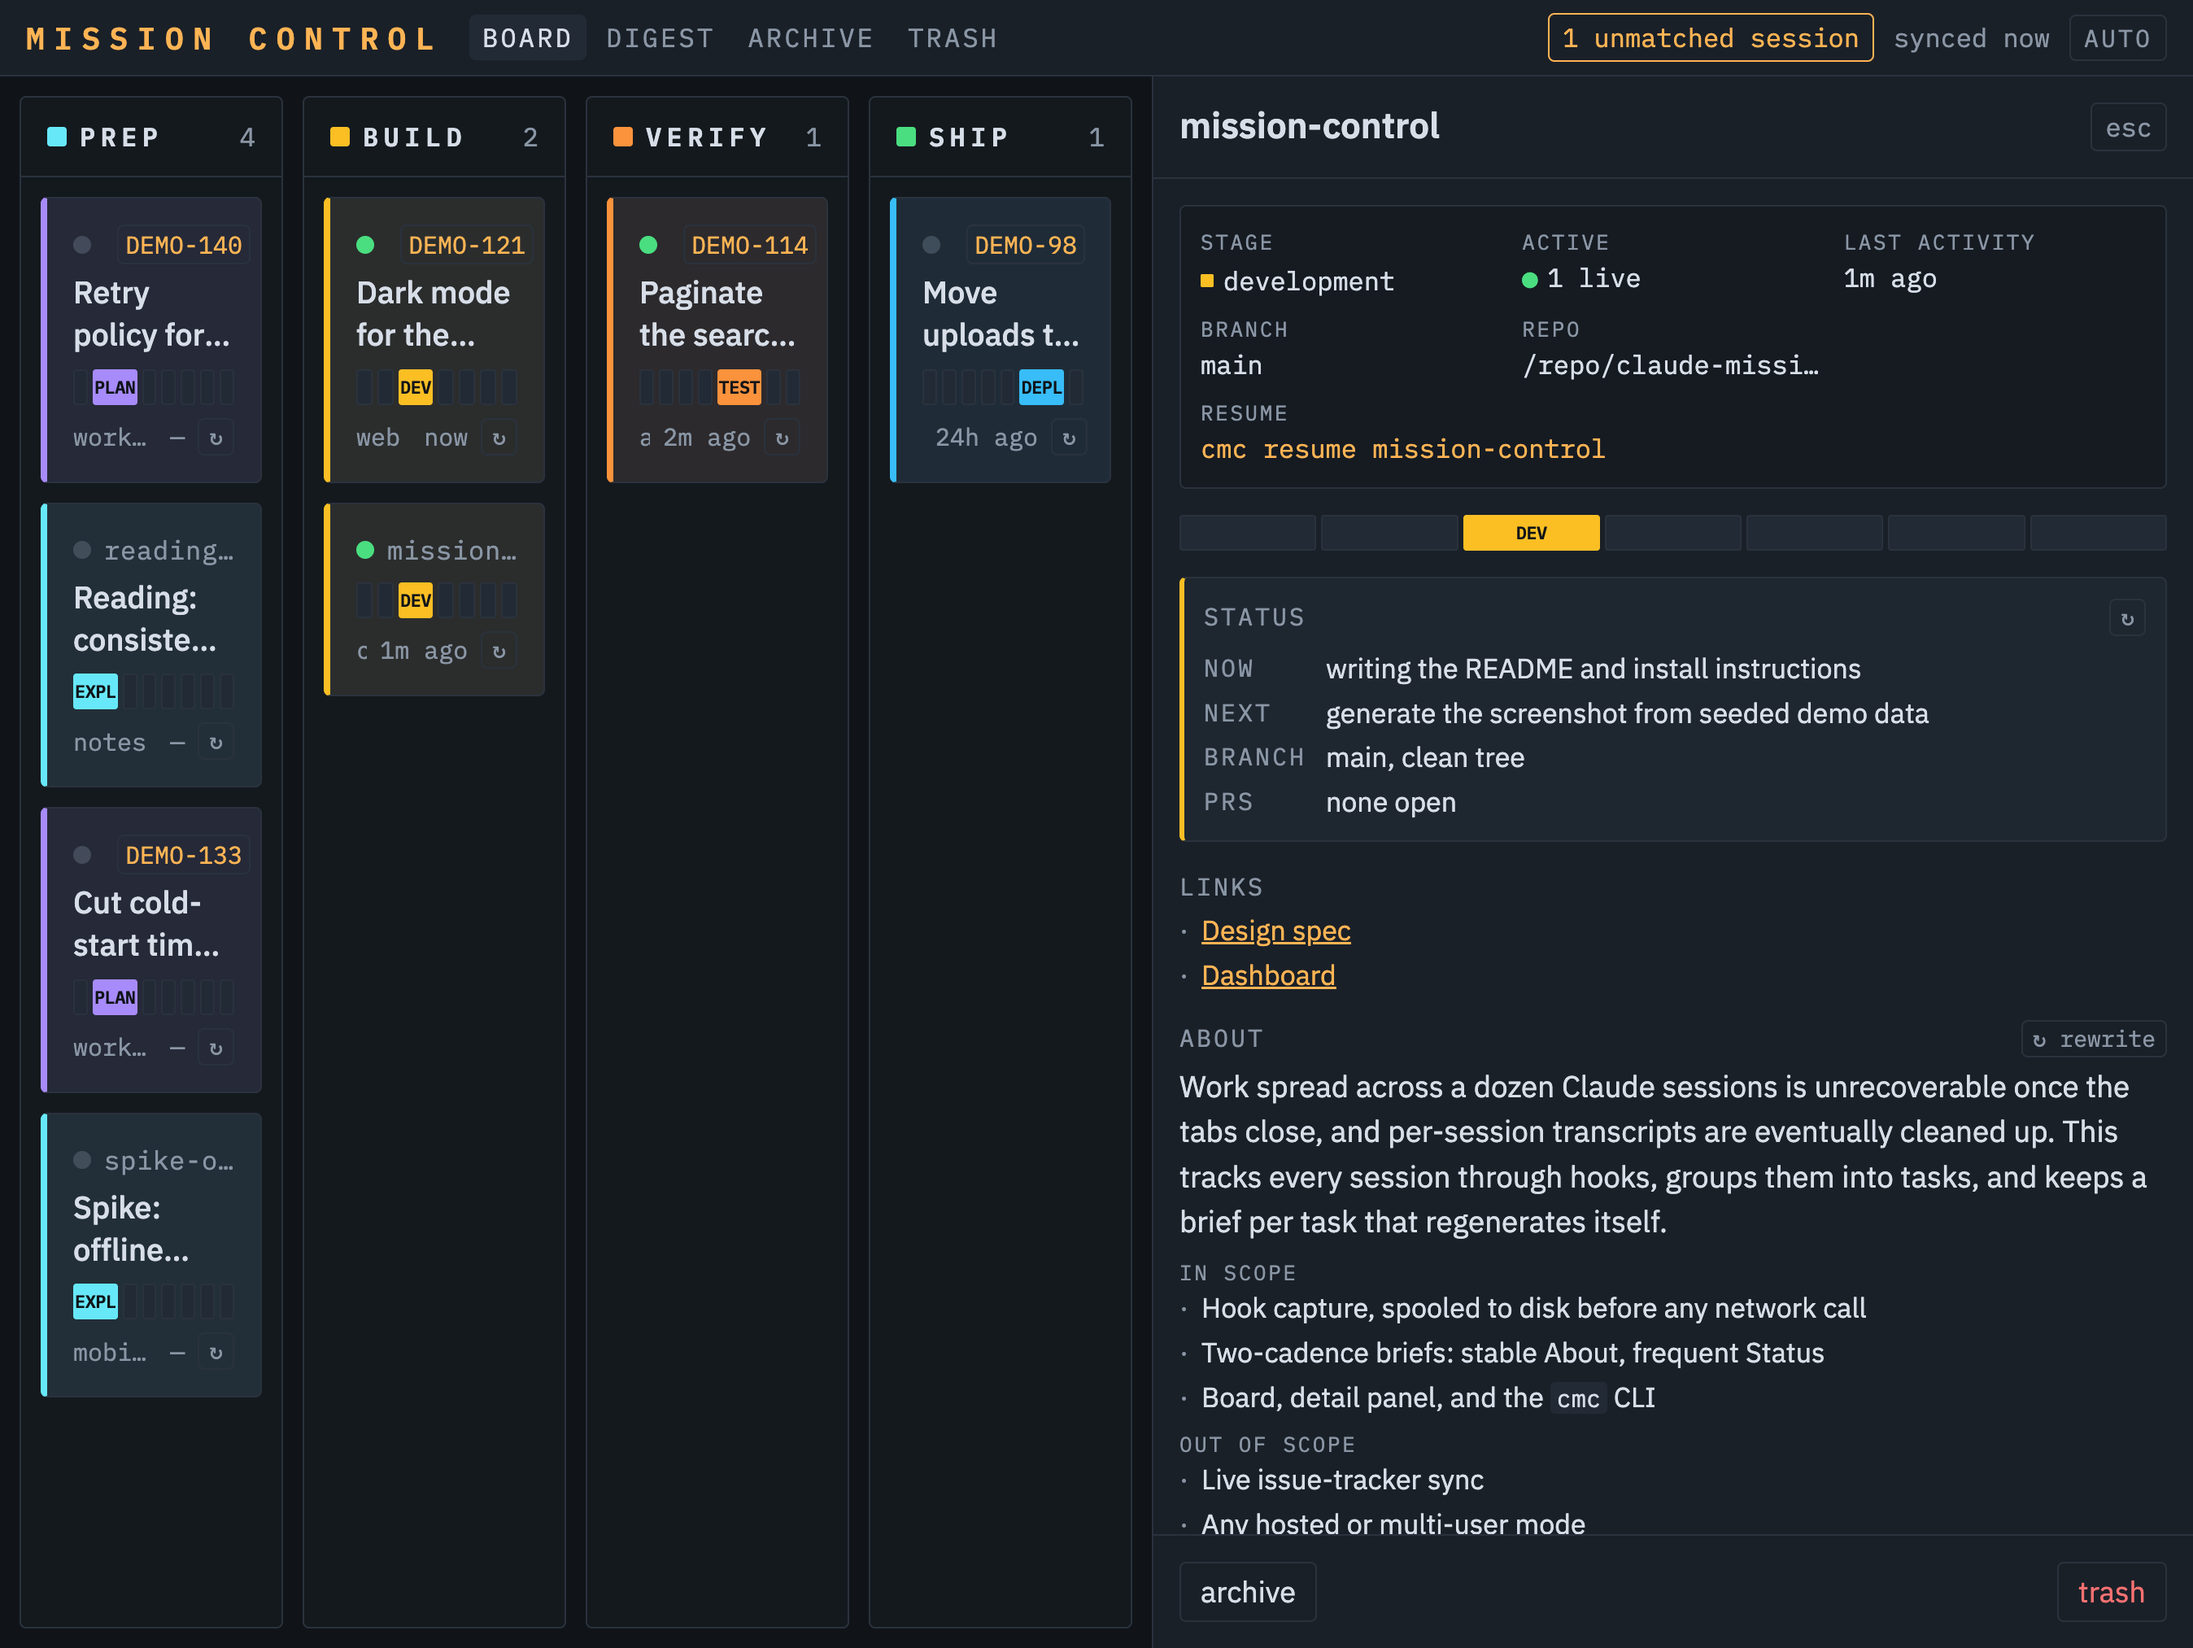
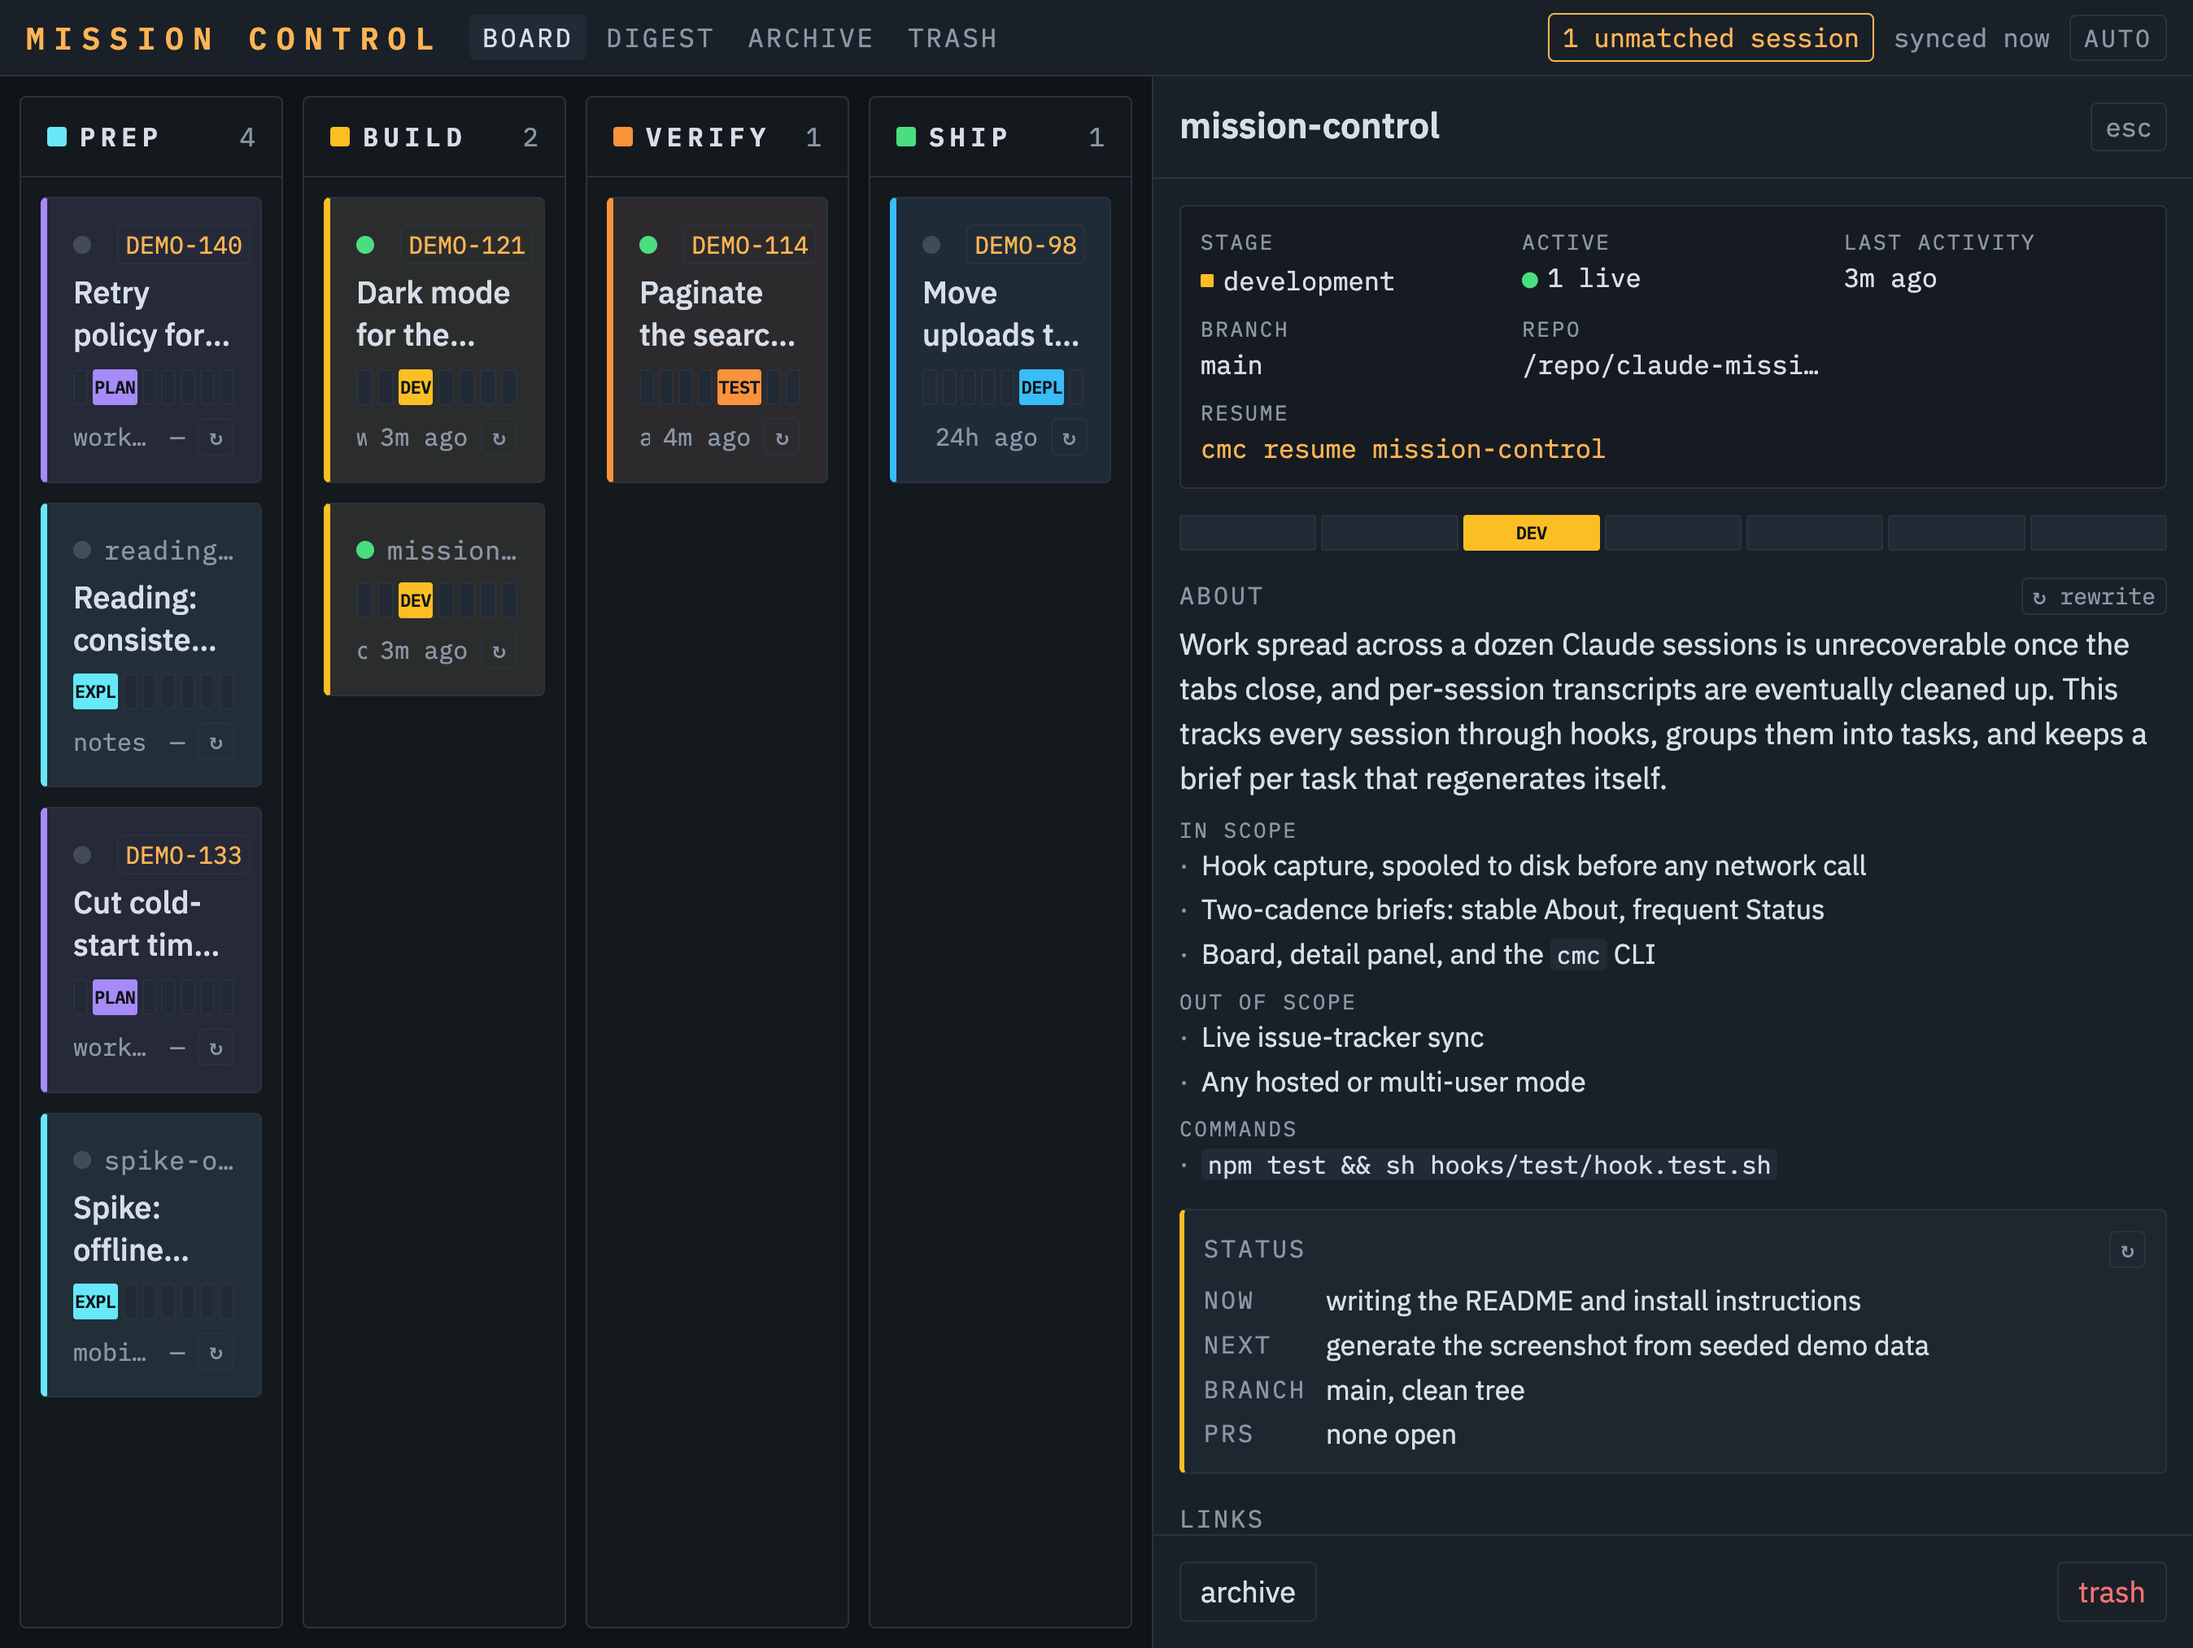
feat: order brief sections About, Status, Links, then Decisions (#1)
A brief read top-to-bottom now answers what the task is, where it stands,
and where to go next, in that order. Links moves up from last place because
it is the section you act on.

The order is set in one place that is easy to miss: spliceSection inserts a
missing Status before the SECOND heading, so whichever section the About
pass emits second decides where Status lands. Moving ## Links above
## Decisions in ABOUT_INSTRUCTION is what pulls Status up above Links. A new
briefer test pins the full order end-to-end so the coupling between that
prompt string and the parser cannot drift silently.

The drawer follows the same order, so reading the panel and reading
BRIEF.md are the same experience. The digest needed no change — it renders
the file verbatim.

Also:
- cmc continue and cmc resume label the session with its task slug via
  claude --name, instead of leaving the derived "<repo>-4c" name. The flag
  is probed once per shell, since an older Claude Code build rejects it and
  a hard failure of cmc continue is worse than an unnamed session.
- README documents cmc continue and /task show|done|archive, which shipped
  in a34c616 undocumented, and corrects "four sections" and the test count.
- Screenshot regenerated from seeded demo data to match the new order.

Changed region(s): [[0.5297, 0.3421, 0.9659, 0.9329]]

diff --git a/dashboard/src/components/Drawer.jsx b/dashboard/src/components/Drawer.jsx
@@ -253,8 +253,23 @@ export default function Drawer({ task, now, jiraBase, onClose }) {
 
         {!raw && (
           <>
-            {/* Status is the lit panel: it is the section that changes constantly,
-                and the question the drawer is opened to answer. */}
+            {/* About, Status, Links — what the task is, where it stands, where to
+                go next. The drawer follows BRIEF.md's own order, so reading the
+                panel and reading the file are the same experience. */}
+            <section>
+              <SectionLabel
+                action={<RefreshButton task={task} about disabled={noSession} tip="rewrite scope, decisions and links">↻ rewrite</RefreshButton>}>
+                ABOUT
+              </SectionLabel>
+              {s?.about.text
+                ? <div className="brief-md" dangerouslySetInnerHTML={{ __html: renderBrief(s.about.text) }} />
+                : <Empty>{noSession ? 'nothing to summarise yet' : 'no scope written yet — press ↻ rewrite'}</Empty>}
+              <Rows fields={s?.about.fields} />
+              <Groups groups={s?.about.groups} />
+            </section>
+
+            {/* Still the lit panel: it is the section that changes constantly, and
+                the question the drawer is usually opened to answer. */}
             <section className="rounded border border-line bg-raised/60 p-3"
               style={{ borderLeft: `3px solid ${stageColor(task.status)}` }}>
               <SectionLabel action={<RefreshButton task={task} disabled={noSession} tip="refresh status from latest sessions">↻</RefreshButton>}>
@@ -281,18 +296,6 @@ export default function Drawer({ task, now, jiraBase, onClose }) {
               {s?.links.items.length
                 ? <BulletList items={s.links.items} />
                 : <Empty>none recorded</Empty>}
-            </section>
-
-            <section>
-              <SectionLabel
-                action={<RefreshButton task={task} about disabled={noSession} tip="rewrite scope, decisions and links">↻ rewrite</RefreshButton>}>
-                ABOUT
-              </SectionLabel>
-              {s?.about.text
-                ? <div className="brief-md" dangerouslySetInnerHTML={{ __html: renderBrief(s.about.text) }} />
-                : <Empty>{noSession ? 'nothing to summarise yet' : 'no scope written yet — press ↻ rewrite'}</Empty>}
-              <Rows fields={s?.about.fields} />
-              <Groups groups={s?.about.groups} />
             </section>
 
             <section>

diff --git a/server/src/briefer.js b/server/src/briefer.js
@@ -84,6 +84,12 @@ systems. The second names what you are changing it to.>
 - <a literal invocation worth not re-deriving from scrollback. Omit this group if
   the transcript contains none.>
 
+## Links
+- [<label, max 5 words>](<the full URL, starting with https://>)
+A markdown link MUST contain a real URL. If you only have a ticket id and no
+URL, write the id as plain text with no brackets — a link whose target is an id
+resolves against the dashboard's own address and goes nowhere.
+
 ## Decisions
 - **<the choice itself, max 15 words. No reason on this line.>**
   Why: <max 25 words. Include this line ONLY if you would re-make the choice
@@ -92,12 +98,6 @@ systems. The second names what you are changing it to.>
 ## Invariants
 - <a rule that must not be broken, one line, max 20 words, and NO reason. A thing
   you would never re-litigate but might accidentally violate.>
-
-## Links
-- [<label, max 5 words>](<the full URL, starting with https://>)
-A markdown link MUST contain a real URL. If you only have a ticket id and no
-URL, write the id as plain text with no brackets — a link whose target is an id
-resolves against the dashboard's own address and goes nowhere.
 
 At most 5 Decisions and 6 Invariants. A choice you would never revisit is an
 Invariant, not a Decision. A mere consequence of another decision is neither —
@@ -157,7 +157,7 @@ ${STYLE}`;
 // whole document rather than patching one section of it.
 const FINALIZE_INSTRUCTION = `${ABOUT_INSTRUCTION}
 
-ADDITIONALLY: also output a "## Status" section (between About and Decisions)
+ADDITIONALLY: also output a "## Status" section (between About and Links)
 recording the final state of the work. This task is being ARCHIVED and its
 transcripts deleted, so this brief becomes the only surviving record. Make it
 self-contained: relax the caps to 10 Decisions and every ticket, PR, dashboard

diff --git a/server/test/briefer.test.js b/server/test/briefer.test.js
@@ -463,6 +463,31 @@ describe('briefer', () => {
     expect(sectionOf(body, 'Status')).toContain('still going');
   });
 
+  it('an About rewrite leaves the brief in reading order: About, Status, Links, Decisions', async () => {
+    // Status is spliced in before the SECOND heading, so the About pass's own
+    // section order decides where it lands. Emitting Links before Decisions is
+    // what puts Status above Links rather than below Invariants — and the Digest
+    // view renders this file verbatim, so the file's order is the tile's order.
+    const { spawn } = fakeSpawnFactory({
+      outputs: [
+        '## About\nscope\n\n## Links\n- PR #1\n\n## Decisions\n- a choice\n\n## Invariants\n- a rule',
+        '## Status\n- Now: wiring',
+      ],
+    });
+    const briefer = createBriefer({ ctx, config, spawn });
+    insertSession({ uuid: 'ordering' });
+
+    briefer.enqueueTask(task.id, { force: true, about: true });
+    await briefer.drain();
+
+    const body = matter(readFileSync(ctx.paths.briefFile(task.slug), 'utf8')).content;
+    const at = (name) => body.indexOf(`## ${name}`);
+    expect(at('About')).toBeLessThan(at('Status'));
+    expect(at('Status')).toBeLessThan(at('Links'));
+    expect(at('Links')).toBeLessThan(at('Decisions'));
+    expect(at('Decisions')).toBeLessThan(at('Invariants'));
+  });
+
   it('rejects a Status pass that emits a whole brief, keeping the stable sections', async () => {
     // A status pass returning every section has been captured by the transcript;
     // saving it would let it overwrite sections it was never asked to touch.

diff --git a/server/src/briefformat.js b/server/src/briefformat.js
@@ -1,7 +1,11 @@
-// Pure text handling for BRIEF.md bodies. A brief is four `## ` sections on two
-// cadences: About/Decisions/Links are stable and regenerated rarely, Status is
-// rewritten often. Keeping the two apart is what makes frequent updates cheap —
-// a Status refresh emits ~230 tokens instead of rewriting ~2,800.
+// Pure text handling for BRIEF.md bodies. A brief is five `## ` sections in a
+// fixed order — About, Status, Links, Decisions, Invariants — on two cadences:
+// everything but Status is stable and regenerated rarely, Status is rewritten
+// often. Keeping the two apart is what makes frequent updates cheap — a Status
+// refresh emits ~230 tokens instead of rewriting ~2,800.
+//
+// The order is what the reader needs in sequence: what this is, where it stands,
+// where to go next. Links sits third because it is the section you act on.
 
 const HEADING = /^## /;
 const STATUS_MAX_BYTES = 4_000;

diff --git a/README.md b/README.md
@@ -32,8 +32,9 @@ when two tasks could match — a wrong attach poisons a brief.
 `BRIEF.md`: what the task is, where it stands, what was decided, and where to look.
 It regenerates as you work — only the volatile part, so it stays cheap.
 
-**Resumes with context.** `cmc resume <task>` drops you back in the right repo, and
-the `SessionStart` hook feeds the brief into the new session automatically.
+**Resumes with context.** `cmc resume <task>` reopens the task's last session with its
+whole transcript; `cmc continue <task>` starts a fresh one carrying only the brief. Both
+drop you in the right repo, and the `SessionStart` hook feeds the brief in automatically.
 
 ---
 
@@ -49,7 +50,7 @@ the `SessionStart` hook feeds the brief into the new session automatically.
 ## Install
 
 ```sh
-git clone <your-fork-url> claude-mission-control
+git clone https://github.com/AravindaM/claude-mission-control.git
 cd claude-mission-control
 sh install/install.sh
 ```
@@ -93,10 +94,19 @@ rm ~/.claude/skills/task ~/.local/bin/cmcctl
 | Track the session you're in | `/task auth-rate-limit` (in Claude) |
 | Bind to an existing task | `/task auth` — substring match, refuses if ambiguous |
 | Save a brief right now | `/task` with no argument |
+| Read the current brief | `/task show` |
+| Mark a task done | `/task done` |
+| Close a task out | `/task archive` — writes a final brief, then deletes its transcripts |
 | See everything | `cmc ls`, or the dashboard |
-| Resume a task | `cmc resume auth-rate-limit` |
+| Pick a task back up | `cmc resume auth-rate-limit` — the last session, whole transcript |
+| Start clean on the same task | `cmc continue auth-rate-limit` — new session, brief only |
 | Read all briefs in the terminal | `cmc digest` |
 | Check the server | `cmcctl status` / `cmcctl logs` |
+
+`resume` and `continue` both take a substring, and offer you the matches when more than
+one task fits. They differ by about 100x in context cost, so they say which one you got
+rather than deciding quietly — and `resume` falls back to `continue`'s behaviour when
+the transcript is already gone.
 
 `/task` is fire-and-forget — a single background `curl` that never blocks your
 session. On a repo it already recognises, sessions attach on their own and you never
@@ -111,15 +121,20 @@ archive or trash.
 
 ### The brief
 
-Each task's `~/claude-tasks/<task>/BRIEF.md` has four sections on two different
+Each task's `~/claude-tasks/<task>/BRIEF.md` has five sections on two different
 cadences, which is what keeps regeneration cheap:
 
 - **About** — why the task exists and what's changing. Stable; rewritten only when
   you press `↻ rewrite`.
 - **Status** — Now / Next / Blockers, plus which branch the code is on and how the
   PRs look. Regenerated as you work.
+- **Links** — things you would actually open: PRs, tickets, dashboards. URLs are pulled
+  out of the transcript directly rather than left to the model to remember.
 - **Decisions** — choices you might otherwise re-litigate, each with its reason.
 - **Invariants** — rules you might break by accident. No reasons, just the rule.
+
+They stay in that order everywhere — the file, the detail panel and the digest — so
+you read what the task is, where it stands, then where to go next.
 
 They're plain markdown with YAML frontmatter, so they're greppable and readable
 without the server running. Every save keeps the previous version in
@@ -150,7 +165,7 @@ Environment overrides: `MC_PORT`, `MC_DATA_DIR`.
 ```
 ~/claude-tasks/
 ├── <task-slug>/
-│   ├── BRIEF.md            # frontmatter + the four sections
+│   ├── BRIEF.md            # frontmatter + the five sections
 │   ├── briefs/             # every previous version
 │   └── transcripts/        # session transcripts, copied on SessionEnd
 ├── _unbound/               # transcripts from sessions with no task
@@ -185,7 +200,7 @@ sensitive, that directory deserves the same care as the repos themselves.
 
 ```sh
 npm install
-npm test                      # 121 vitest tests
+npm test                      # 142 vitest tests
 sh hooks/test/hook.test.sh    # hook contract tests (shell)
 npm start                     # run the server in the foreground
 cd dashboard && npm run dev   # dashboard with HMR against a running server
